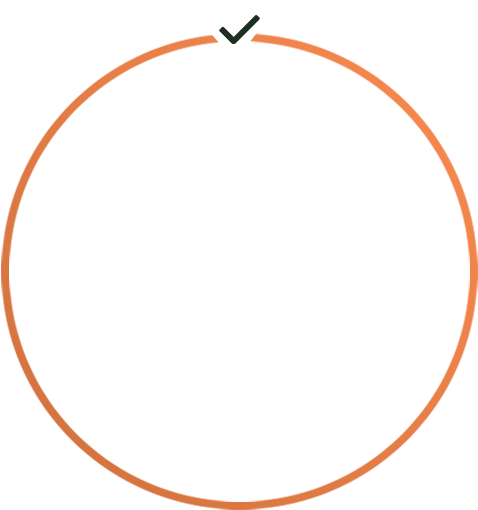
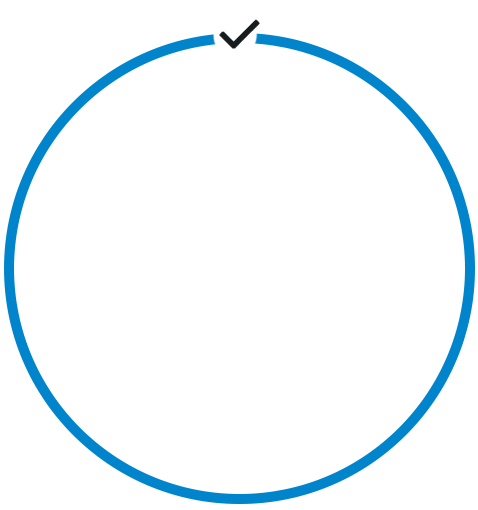
fix: images

Changed region(s): [[0.0, 0.0294, 1.0, 1.0]]

diff --git a/components/sections/cards-section.tsx b/components/sections/cards-section.tsx
@@ -35,7 +35,7 @@ export function CardsSection() {
               {/* Imagem de fundo azul */}
               <div className="absolute w-[350px] h-[350px] md:w-[500px] md:h-[500px] bg-accent rounded-full overflow-hidden">
                 <Image
-                  src="/images/mobile-app-screen-bg.jpg"
+                  src="/images/mobile-app-screen-bg.png"
                   alt="Fundo azul para seção de cartões"
                   fill
                   className="object-cover opacity-30"

diff --git a/components/sections/pix-section.tsx b/components/sections/pix-section.tsx
@@ -34,7 +34,7 @@ export function PixSection() {
               {/* Imagem de fundo azul */}
               <div className="absolute w-[280px] h-[280px] md:w-[400px] md:h-[400px] bg-accent rounded-full overflow-hidden">
                 <Image
-                  src="/images/mobile-app-screen-bg.jpg"
+                  src="/images/mobile-app-screen-bg.png"
                   alt="Fundo azul para seção PIX"
                   fill
                   className="object-cover opacity-30"
